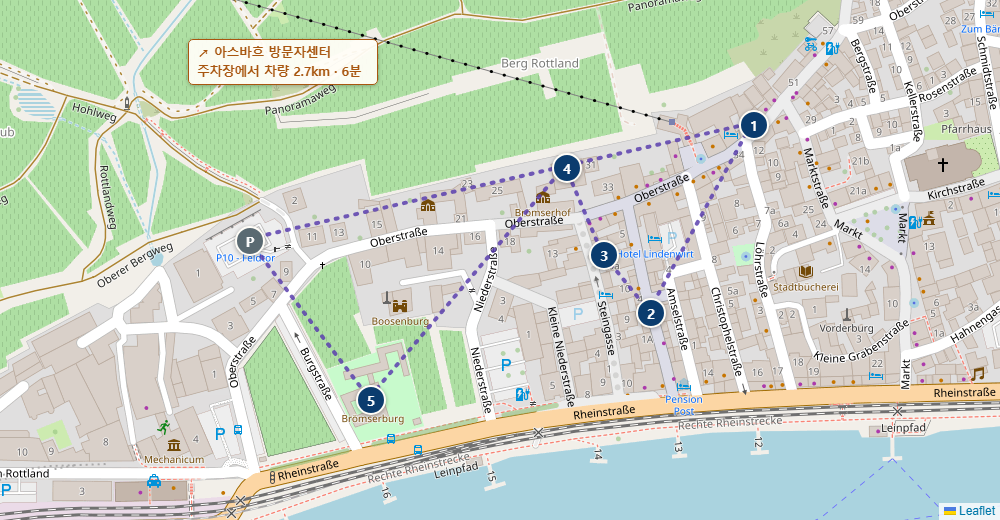
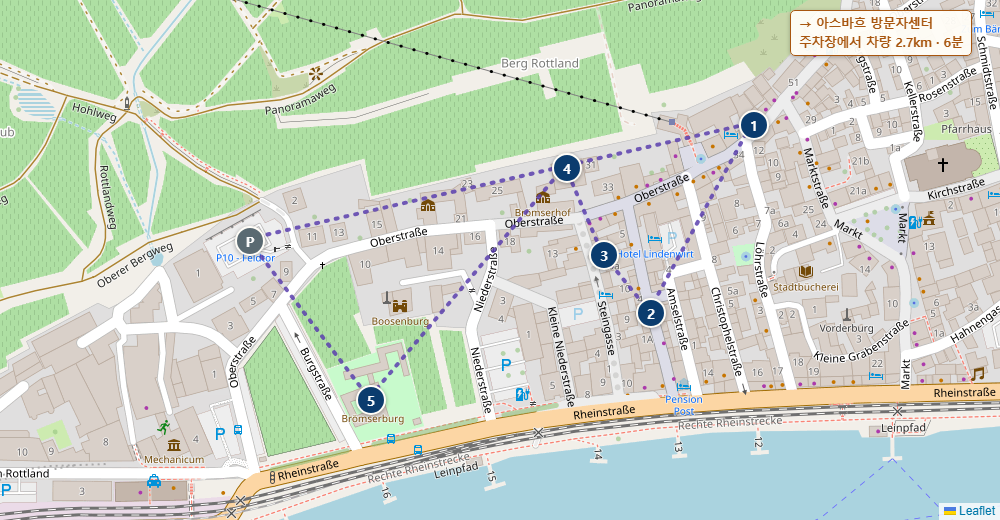
Move Rudesheim's Asbach callout away from the real cable car line
The Asbach Uralt visitor center callout sat in the map's upper-left
corner, which is exactly where OpenStreetMap's own tile rendering
draws Rudesheim's real cable car (Seilbahn) line running from stop 1
up into the hills - making our callout look connected to it. Geocoded
Asbach's real position (east of the old town, not northwest) and
moved the callout to the map's right edge, clear of the cable car
line and pointing in the geographically correct direction.

Changed region(s): [[0.775, 0.0, 0.992, 0.1231], [0.186, 0.0615, 0.403, 0.1846]]

diff --git a/germany-roadtrip-planner.html b/germany-roadtrip-planner.html
@@ -3899,7 +3899,7 @@ document.addEventListener('DOMContentLoaded', function(){
       <a class="walk-map-link" href="https://www.google.com/maps/dir/?api=1&travelmode=walking&origin=49.9788,7.9165&destination=49.9788,7.9165&waypoints=49.9796%2C7.9219%7C49.9783%2C7.9208%7C49.9787,7.9203%7C49.9793,7.9199%7C49.9777,7.9178" target="_blank" rel="noopener">📍 Google 지도로 도보 코스 보기(출발·도착: P10 Feldtor 주차장) · 총 약 1.3km · 도보 약 16분</a>
       <div class="route-snapshot">
         <div class="route-snapshot-media">
-          <img src="images/routes/ruedesheim.png?v=3" alt="뤼데스하임 도보 코스 지도 스냅샷" loading="lazy">
+          <img src="images/routes/ruedesheim.png?v=4" alt="뤼데스하임 도보 코스 지도 스냅샷" loading="lazy">
         </div>
         <ol class="route-steps">
         <li class="rs-p"><span class="rs-name">P10 Feldtor 주차장</span></li>

diff --git a/index.html b/index.html
@@ -3899,7 +3899,7 @@ document.addEventListener('DOMContentLoaded', function(){
       <a class="walk-map-link" href="https://www.google.com/maps/dir/?api=1&travelmode=walking&origin=49.9788,7.9165&destination=49.9788,7.9165&waypoints=49.9796%2C7.9219%7C49.9783%2C7.9208%7C49.9787,7.9203%7C49.9793,7.9199%7C49.9777,7.9178" target="_blank" rel="noopener">📍 Google 지도로 도보 코스 보기(출발·도착: P10 Feldtor 주차장) · 총 약 1.3km · 도보 약 16분</a>
       <div class="route-snapshot">
         <div class="route-snapshot-media">
-          <img src="images/routes/ruedesheim.png?v=3" alt="뤼데스하임 도보 코스 지도 스냅샷" loading="lazy">
+          <img src="images/routes/ruedesheim.png?v=4" alt="뤼데스하임 도보 코스 지도 스냅샷" loading="lazy">
         </div>
         <ol class="route-steps">
         <li class="rs-p"><span class="rs-name">P10 Feldtor 주차장</span></li>
